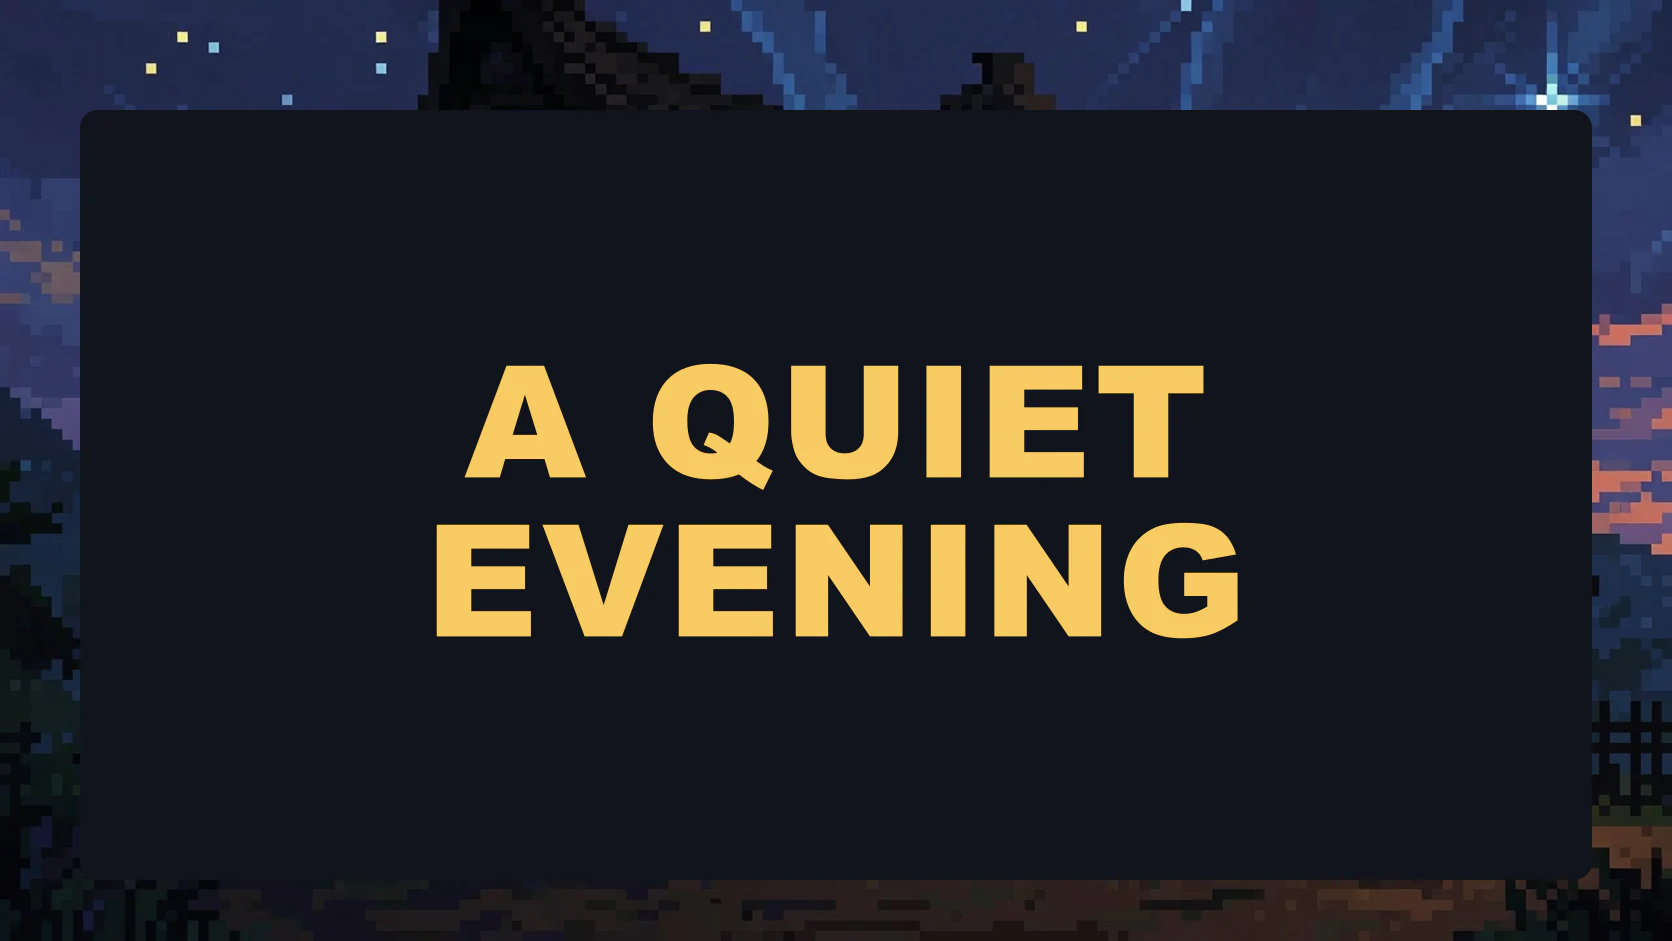
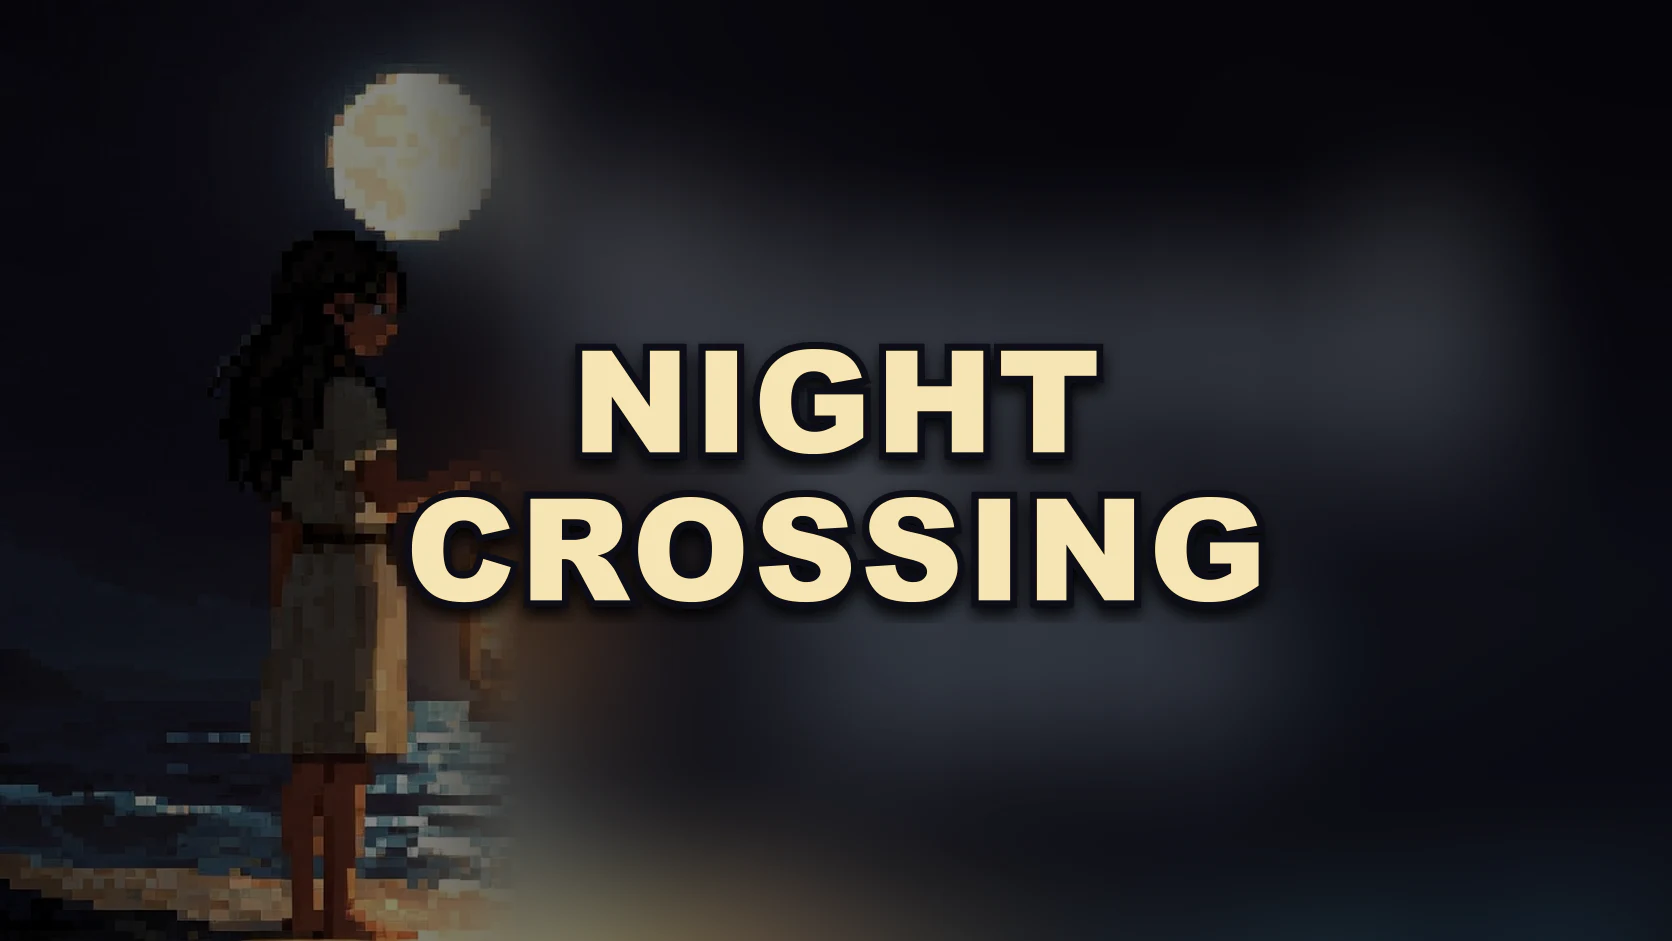
fix(content-packs): strengthen legacy gallery previews

diff --git a/content-packs/free-starters/ASSET-PROVENANCE.md b/content-packs/free-starters/ASSET-PROVENANCE.md
@@ -20,11 +20,11 @@ the output bytes below bind the added recipe previews.
 
 | Output preview asset | Owner-supplied read-only source | Source SHA-256 / dimensions | Deterministic operation | Output SHA-256 / bytes / decode | Rights basis |
 | --- | --- | --- | --- | --- | --- |
[11 lines of base64/hex data omitted]
@@ -53,17 +53,17 @@ the output bytes below bind the added recipe previews.
[22 lines of base64/hex data omitted]

diff --git a/content-packs/free-starters/MIGRATION-RATIONALE.md b/content-packs/free-starters/MIGRATION-RATIONALE.md
@@ -28,7 +28,11 @@ The legacy-gallery restoration adds examples, not products or default changes:
 
 - **Dozing Knight** output is compatibility evidence for the existing
   `centered-hero-headline` recipe together with `builtin-pixel-art-story`; no
-  Dozing Knight pack, channel identity, or franchise wording is created.
+  Dozing Knight pack, channel identity, or franchise wording is created. Its
+  two added previews use title-free left hero crops over a strongly blurred
+  version of the same owner source, then a uniform dim and generic outlined
+  headline; this keeps the lantern and apothecary subjects legible without
+  retaining source wording or creating a title card.
 - **Abiding Faith** output is compatibility evidence for the existing
   `portrait-block-right` recipe together with the signed
   `cinematic-photoreal` style; it does not make prayer-only semantics part of
